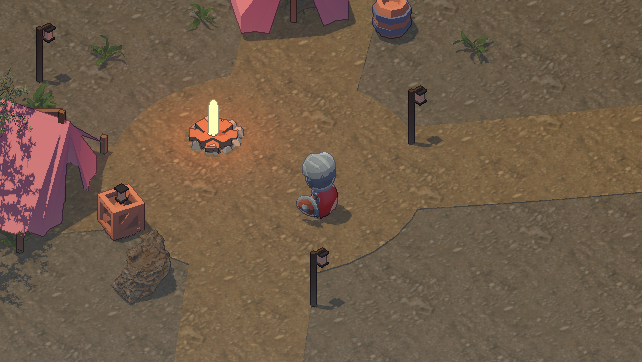
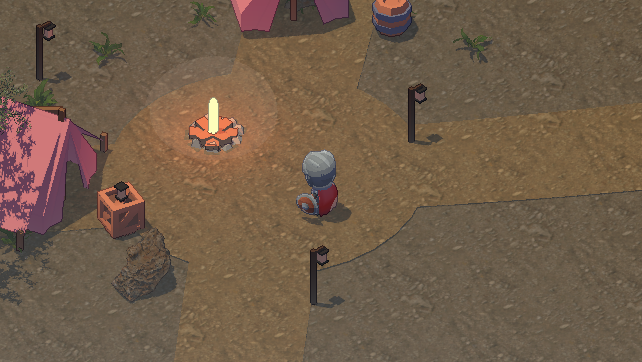
Background lighting phase 4: pixel-resolution volumetrics
- New renderer pass (opt-in via PixelVolumetrics on the camera): raymarch
  the low haze at pixel-buffer size, 24 steps, sun/moon occluded by the
  main shadow map, up to 16 lamps with the toon falloff.
- Composite: 13-tap blur, then hard-edged brightness bands added to the
  scene; no frame history, so no smearing. Drawn before the linework.
- Moon scatters at 25% once the sun is down; lamp glow reaches 60% of
  the light range. Design doc records the five tuning iterations.

diff --git a/Assets/Scripts/PixelArtLabRendererFeature.cs b/Assets/Scripts/PixelArtLabRendererFeature.cs
@@ -7,15 +7,19 @@ using UnityEngine.Rendering.Universal;
 
 namespace PixelArtLab
 {
-    // URP replacement for the Built-in camera hooks: PlayerVisibility's BeforeImageEffects
-    // command buffer and PixelLinework's OnRenderImage. Both stay opt-in per camera.
+    // Custom passes on top of URP, each opt-in per camera by component:
+    // PlayerVisibility (wall stencil and occluded scan), PixelVolumetrics (light shafts)
+    // and PixelLinework (object-ID ink, drawn last so lines stay crisp over the haze).
     public sealed class PixelArtLabRendererFeature : ScriptableRendererFeature
     {
         VisibilityPass visibility;
         LineworkPass linework;
+        VolumetricPass volumetrics;
         public override void Create()
         {
             visibility=new VisibilityPass{renderPassEvent=RenderPassEvent.AfterRenderingTransparents,requiresIntermediateTexture=true};
+            volumetrics=new VolumetricPass{renderPassEvent=RenderPassEvent.AfterRenderingTransparents+1,requiresIntermediateTexture=true};
+            volumetrics.ConfigureInput(ScriptableRenderPassInput.Depth);
             linework=new LineworkPass{renderPassEvent=RenderPassEvent.BeforeRenderingPostProcessing,requiresIntermediateTexture=true};
         }
         public override void AddRenderPasses(ScriptableRenderer renderer,ref RenderingData renderingData)
@@ -24,8 +28,49 @@ namespace PixelArtLab
             if(renderingData.cameraData.cameraType!=CameraType.Game)return;
             var player=camera.GetComponent<PlayerVisibility>();
             if(player&&player.isActiveAndEnabled&&player.draws.Count>0){visibility.source=player;renderer.EnqueuePass(visibility);}
+            var air=camera.GetComponent<PixelVolumetrics>();
+            if(air&&air.isActiveAndEnabled){volumetrics.source=air;renderer.EnqueuePass(volumetrics);}
             var ink=camera.GetComponent<PixelLinework>();
             if(ink&&ink.isActiveAndEnabled&&ink.linework){linework.source=ink;renderer.EnqueuePass(linework);}
+        }
+
+        sealed class VolumetricPass : ScriptableRenderPass
+        {
+            public PixelVolumetrics source;
+            static readonly int volumeId=Shader.PropertyToID("_LabVolumetricTexture");
+            sealed class MarchData {public Material material;}
+            sealed class CompositeData {public TextureHandle color,volume;public Material material;}
+            public override void RecordRenderGraph(RenderGraph renderGraph,ContextContainer frameData)
+            {
+                var resources=frameData.Get<UniversalResourceData>();
+                if(resources.isActiveTargetBackBuffer||!resources.cameraDepthTexture.IsValid())return;
+                var colorDesc=renderGraph.GetTextureDesc(resources.activeColorTexture);
+                var material=source.Prepare(colorDesc.width,colorDesc.height);if(!material)return;
+                // Pass 0: march the haze into an HDR buffer the size of the pixel buffer.
+                var volume=UniversalRenderer.CreateRenderGraphTexture(renderGraph,new RenderTextureDescriptor(colorDesc.width,colorDesc.height,GraphicsFormat.R16G16B16A16_SFloat,GraphicsFormat.None),"Pixel Volumetrics",false);
+                using(var builder=renderGraph.AddRasterRenderPass<MarchData>("Pixel volumetric march",out var data))
+                {
+                    data.material=material;
+                    builder.UseTexture(resources.cameraDepthTexture);
+                    builder.UseAllGlobalTextures(true); // main light shadow map, camera depth
+                    builder.SetRenderAttachment(volume,0);
+                    builder.SetRenderFunc((MarchData d,RasterGraphContext context)=>Blitter.BlitTexture(context.cmd,new Vector4(1,1,0,0),d.material,0));
+                }
+                // Pass 1: blur, band and add to the scene colour.
+                colorDesc.name="Pixel Volumetrics Composite";colorDesc.clearBuffer=false;
+                var lit=renderGraph.CreateTexture(colorDesc);
+                using(var builder=renderGraph.AddRasterRenderPass<CompositeData>("Pixel volumetric composite",out var data))
+                {
+                    data.color=resources.activeColorTexture;data.volume=volume;data.material=material;
+                    builder.UseTexture(data.color);builder.UseTexture(volume);builder.SetRenderAttachment(lit,0);
+                    builder.SetRenderFunc((CompositeData d,RasterGraphContext context)=>
+                    {
+                        d.material.SetTexture(volumeId,(RTHandle)d.volume);
+                        Blitter.BlitTexture(context.cmd,d.color,new Vector4(1,1,0,0),d.material,1);
+                    });
+                }
+                resources.cameraColor=lit;
+            }
         }
 
         sealed class VisibilityPass : ScriptableRenderPass

diff --git a/Assets/Editor/BackgroundLighting.cs b/Assets/Editor/BackgroundLighting.cs
@@ -111,12 +111,27 @@ namespace PixelArtLab.Editor
             g.GetComponent<Renderer>().sharedMaterial=material;if(!solid)Object.DestroyImmediate(g.GetComponent<Collider>());return g;
         }
 
+        // Phase 4: pixel-resolution light shafts and lamp glow in the air (L5).
+        [MenuItem("Pixel Art Lab/Background Lighting/Apply Phase 4")]
+        public static void ApplyPhase4()
+        {
+            EditorSceneManager.OpenScene(DetailedWoodlandBuilder.ScenePath);
+            var env=Object.FindFirstObjectByType<WorldEnvironment>();
+            var air=env.worldCamera.GetComponent<PixelVolumetrics>();if(!air)air=env.worldCamera.gameObject.AddComponent<PixelVolumetrics>();
+            air.shader=Shader.Find("Hidden/PixelArtLab/Volumetrics");air.environment=env;
+            // Tuned values, written explicitly so re-running reproduces them.
+            air.steps=24;air.airDensity=.01f;air.mediumTop=8;air.maxMarch=30;air.sunStrength=.08f;air.lampStrength=.15f;air.lampGlowReach=.6f;air.moonScatter=.25f;air.bandStep=.035f;
+            EditorUtility.SetDirty(air);
+            EditorSceneManager.SaveScene(UnityEngine.SceneManagement.SceneManager.GetActiveScene());
+            Debug.Log("BACKGROUND_LIGHTING_PHASE4_APPLIED "+(air.shader?air.shader.name:"missing shader"));
+        }
+
         // Play-mode captures of the live pixel buffer (post-processing only runs there).
-        // Writes Previews/Lighting/<shot>[-no-post|-no-fog].png, a luminance report and frame times.
+        // Writes Previews/Lighting/<shot>[-no-post|-no-fog|-no-volumetrics].png, a luminance report and frame times.
         [MenuItem("Pixel Art Lab/Background Lighting/Capture Play Mode")]
         public static void Capture(){EditorSceneManager.OpenScene(DetailedWoodlandBuilder.ScenePath);SessionState.SetBool("Lighting.Capture",true);EditorApplication.isPlaying=true;}
         [InitializeOnLoadMethod]static void Resume(){if(SessionState.GetBool("Lighting.Capture",false))EditorApplication.update+=Tick;}
-        static readonly (string name,float hour,bool shore)[] Shots={("Noon",13,false),("Sunset",17.5f,false),("Night",0,false),("Night-Shore",0,true),("Sunset-Shore",17.5f,true)};
+        static readonly (string name,float hour,bool shore)[] Shots={("Morning",8,false),("Noon",13,false),("Sunset",17.5f,false),("Night",0,false),("Night-Shore",0,true),("Sunset-Shore",17.5f,true)};
         static readonly List<string> report=new List<string>();
         static readonly List<float> frameTimes=new List<float>();
         static int frame,shot,timing,variant;static double timingStart;
@@ -129,18 +144,19 @@ namespace PixelArtLab.Editor
             env.runClock=false;
             if(shot<Shots.Length)
             {
-                // Variants: 0 full, 1 no post-processing, 2 no height fog.
+                // Variants: 0 full, 1 no post-processing, 2 no height fog, 3 no volumetrics.
                 env.hour=Shots[shot].hour;if(volume)volume.weight=variant==1?0:1;env.heightFog=variant!=2;
+                var air=follow.GetComponent<PixelVolumetrics>();if(air)air.enabled=variant!=3;
                 if(frame==0){var at=Shots[shot].shore?new Vector3(-17,1,12):env.player.spawnPoint;if((env.player.transform.position-at).sqrMagnitude>1){env.player.Teleport(at);follow.lookOffset=Shots[shot].shore?new Vector3(-6,0,7):Vector3.zero;follow.SnapToPlayer();}}
                 // Let the camera settle and the volume stack update before reading.
                 if(++frame<30)return;frame=0;
                 Directory.CreateDirectory("Previews/Lighting");
-                string suffix=variant==1?"-no-post":variant==2?"-no-fog":"";
+                string suffix=variant==1?"-no-post":variant==2?"-no-fog":variant==3?"-no-volumetrics":"";
                 var pixels=Save(buffer,$"Previews/Lighting/{Shots[shot].name}{suffix}.png");
                 var luma=pixels.Select(p=>(p.r*.2126f+p.g*.7152f+p.b*.0722f)/255).OrderBy(v=>v).ToArray();
                 float mean=luma.Average(),dark=luma[(int)(luma.Length*.1f)],bright=luma[(int)(luma.Length*.95f)];
                 report.Add($"{Shots[shot].name}{suffix}: mean {mean:F3}, p10 {dark:F3}, p95 {bright:F3}, contrast p95/p10 {bright/Mathf.Max(.002f,dark):F1}");
-                if(++variant<3)return;
+                if(++variant<4)return;
                 variant=0;shot++;env.heightFog=true;return;
             }
             // Frame time at the night camp with the placed practical lights off, then on (uncapped).

diff --git a/Assets/Scripts/PixelVolumetrics.cs b/Assets/Scripts/PixelVolumetrics.cs
@@ -1,0 +1,46 @@
+using UnityEngine;
+
+namespace PixelArtLab
+{
+    // Settings for the pixel-resolution light shafts (Docs/Background-Lighting-Design.md L5).
+    // PixelArtLabRendererFeature runs the pass only on cameras that carry this component.
+    [ExecuteAlways,RequireComponent(typeof(Camera))]
+    public sealed class PixelVolumetrics : MonoBehaviour
+    {
+        public Shader shader;
+        public WorldEnvironment environment;
+        [Range(4,32)]public int steps=24;
+        [Range(0,.1f)]public float airDensity=.01f;
+        public float mediumTop=8,maxMarch=30;
+        [Range(0,1)]public float sunStrength=.08f,lampStrength=.15f,lampGlowReach=.6f;
+        // Once the sun is down, moonlight scatters at this share of the sun's strength. Full
+        // strength lit a flat band of low shore haze at night; lamps should lead there instead.
+        [Range(0,1)]public float moonScatter=.25f;
+        [Tooltip("Brightness step of the light bands; 0 keeps the shafts smooth.")]
+        [Range(0,.2f)]public float bandStep=.035f;
+        const int MaxLights=16;
+        readonly Vector4[] lights=new Vector4[MaxLights],colors=new Vector4[MaxLights];
+        Material material;
+        internal Material Prepare(int width,int height)
+        {
+            if(!shader||!shader.isSupported)return null;
+            if(!material)material=new Material(shader){hideFlags=HideFlags.HideAndDontSave};
+            int count=0;
+            if(environment&&environment.torches!=null)foreach(var light in environment.torches)
+            {
+                if(count==MaxLights)break;if(!light||!light.enabled||light.intensity<=.01f)continue;
+                // Air glow covers 60% of the light's reach, so halos read lantern-sized.
+                float reach=light.range*lampGlowReach;
+                lights[count]=new Vector4(light.transform.position.x,light.transform.position.y,light.transform.position.z,1/Mathf.Max(.01f,reach*reach));
+                colors[count++]=light.color.linear*light.intensity;
+            }
+            material.SetVectorArray("_LabVolumeLights",lights);material.SetVectorArray("_LabVolumeLightColors",colors);material.SetInt("_LabVolumeLightCount",count);
+            material.SetVector("_LabVolumetric",new Vector4(airDensity,mediumTop,maxMarch,steps));
+            float daylight=environment?environment.Daylight:1;
+            material.SetVector("_LabVolumetricStrength",new Vector4(sunStrength*Mathf.Lerp(moonScatter,1,Mathf.Clamp01(daylight*10)),lampStrength,bandStep,0));
+            material.SetVector("_LabVolumetricTexel",new Vector4(1f/width,1f/height,width,height));
+            return material;
+        }
+        void OnDisable(){if(material){if(Application.isPlaying)Destroy(material);else DestroyImmediate(material);}}
+    }
+}

diff --git a/Docs/Background-Lighting-Design.md b/Docs/Background-Lighting-Design.md
@@ -143,7 +143,31 @@ Replaced 캡처(바 실내, 창고) 기준:
 
 - 캡처 도구는 장면마다 "전체 / 후처리 없음 / 안개 없음" 세 가지를 저장한다.
 
-## 8. 단계별 계획
+## 8. 4단계 결과 (2026-11-02)
+
+- 렌더러 기능에 **픽셀 해상도 볼류메트릭 패스**를 추가했다(`PixelVolumetrics` 컴포넌트가 붙은 카메라에서만 실행). 순서는 투명 물체 → 볼류메트릭 → 선화라서, 외곽선이 안개 위에 또렷하게 남는다.
+  - 0번 패스(레이마칭): 픽셀 버퍼 크기(약 640×360) HDR 텍스처에 24스텝으로 표면에서 카메라 쪽으로 진행한다. 매질은 높이 안개와 같은 식 + 공기 바닥 농도 0.01이고, 높이 8m·길이 30m까지만 계산한다.
+  - 빛: 태양·달은 주광 그림자맵으로 가려지는 곳을 뺀다(나무·바위가 빛줄기를 자른다). 랜턴·횃불은 최대 16개, Sprite Toon과 같은 감쇠 곡선을 쓰고 그림자는 무시한다.
+  - 1번 패스(합성): 13탭 블러 후 밝기를 0.035 단위의 **딱 끊긴 밴드**로 양자화해 장면에 더한다. 색조는 유지한다. 이전 프레임을 쓰지 않아 움직여도 잔상이 없다.
+- 설정값(`Pixel Art Lab > Background Lighting > Apply Phase 4`): 태양 0.08, 해가 진 뒤 달은 그 25%, 랜턴 0.15, 랜턴 빛무리 범위는 광원 범위의 60%.
+
+| 장면 | 볼류메트릭으로 생긴 것 |
+| --- | --- |
+| 노을 호숫가 | 따뜻한 빛줄기가 물가에 깔리고, 바위·나무 그림자가 빛을 잘라 띠가 생김 |
+| 밤 야영지 | 모닥불과 랜턴마다 작은 원형 빛무리(1~2단계 밴드) |
+| 밤 호숫가 | 낚시등 주변 차가운 원형 빛무리(2단계 밴드) |
+| 아침·정오 | 거의 변화 없음(해가 높아 그림자 사이 공기가 짧음) |
+
+- 프레임 시간(에디터 플레이 모드, 밤 야영지): 약 2.2~2.6ms. 3단계 측정(약 1.9ms)보다 0.3~0.7ms 늘었다. 에디터 측정이라 오차가 크다. GPU 시간만 따로 잰 값은 아니다.
+
+### 시행착오 (같은 문제를 다시 만나지 않도록)
+1. **무작위 시작 지터 + 작은 블러:** 밴드 경계에 바둑판 같은 잡음이 남았다. → 블러를 13탭으로 넓혔다.
+2. **순서형(Bayer) 디더로 밴드 사이 전환:** 희미한 달빛 산란까지 디더가 켜져 화면 전체에 망사 무늬가 생겼다. → 지터와 디더를 모두 빼고 고정 시작점 + 딱 끊긴 밴드로 정했다.
+3. **달빛 산란 100%:** 물가의 낮고 짙은 안개에 평평한 밝은 띠가 생겼다. → 해가 진 뒤에만 달 산란을 25%로 낮췄다.
+4. **태양 세기를 Daylight로 곱함:** 노을(Daylight 0.25)에서 빛줄기가 사라졌다. → 달 감쇠는 Daylight가 0에 가까울 때만 적용한다.
+5. **씬에 저장된 컴포넌트 값:** 필드 기본값을 바꿔도 씬에 이미 저장된 값은 그대로였다. → 4단계 적용 메뉴가 모든 값을 직접 쓴다.
+
+## 9. 단계별 계획
 
 | 단계 | 내용 | 확인 방법 |
 | --- | --- | --- |
@@ -156,7 +180,7 @@ Replaced 캡처(바 실내, 창고) 기준:
 모든 단계에서 기존 자동 검증(렌더링, 반사·그림자, 가림 해소, 플레이)을 통과해야 한다.
 **실행 파일은 빌드하지 않는다.**
 
-## 9. 성능 목표 (PC)
+## 10. 성능 목표 (PC)
 
 - 기준: GTX 1060급, 1080p 출력(내부 버퍼 약 640×360), 60fps
 - 볼류메트릭 패스: 1ms 이하
